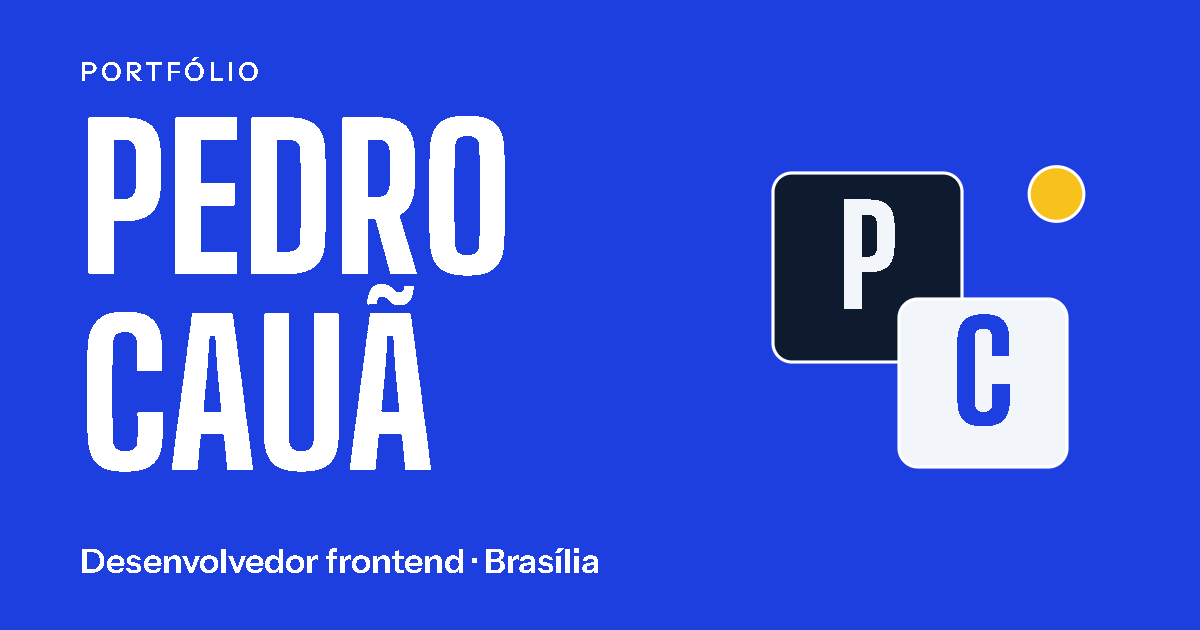
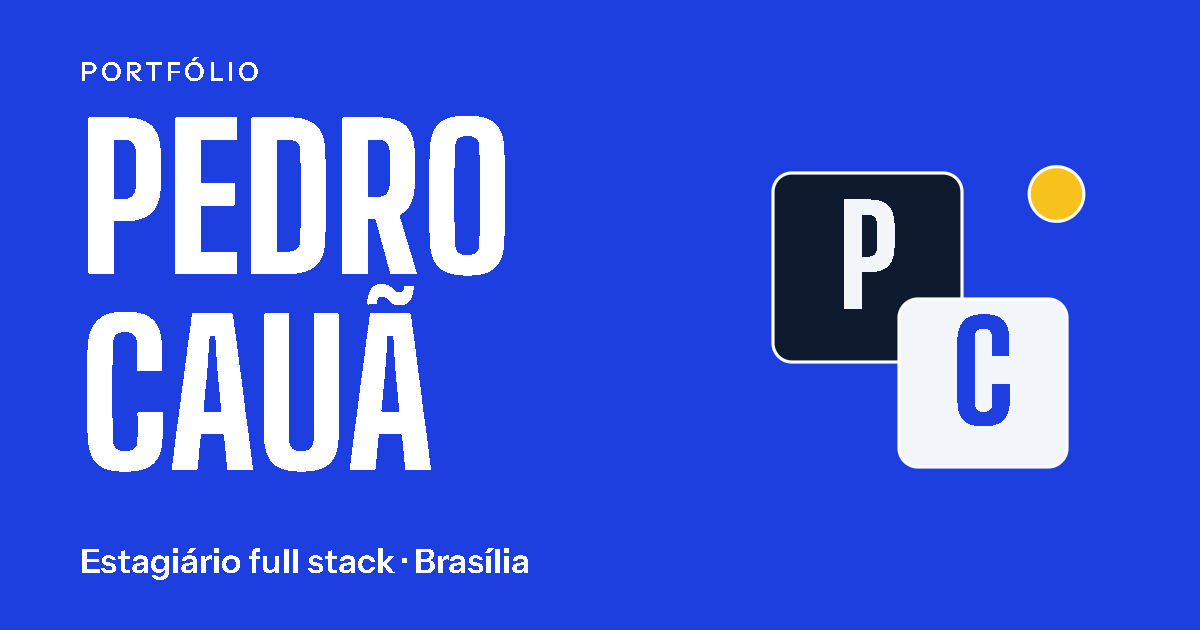
Imagem de compartilhamento atualizada, DESIGN.md e .gitignore

Changed region(s): [[0.0617, 0.8746, 0.4933, 0.9349]]

diff --git a/DESIGN.md b/DESIGN.md
@@ -1,0 +1,179 @@
+# DESIGN.md
+
+Portfólio de Pedro Cauã. Base: tokens, fontes e trilho do `index (1).html` atual. Valores marcados com **novo** não existem no código ainda; os demais já existem.
+
+## História da página
+
+Desenvolvedor que constrói software que as pessoas conseguem usar, e usa IA para trabalhar melhor.
+
+Implicação: o produto usável (Nodify, acessibilidade) é o fim e a IA é o meio. O h1 atual ("Faço agentes de IA trabalharem como um time de engenharia") inverte essa ordem. [PENDENTE: decidir se o h1 muda para seguir a história]
+
+## Tese visual
+
+Um painel de engenharia em azul de planta e amarelo de sinalização: o portfólio de quem trabalha com agentes se mostra como um log de execução legível, em que cada seção é uma etapa e cada troca de fundo é a passagem para a próxima.
+
+## Detalhe do assunto
+
+- **Log de execução**: linhas em mono com `✓`, `…` e `→` (hoje no `.trace` do hero). Rótulos, contadores e eyebrows usam o mesmo registro.
+- **Coordenadas de Brasília** no eyebrow do início (`15°47′S 47°53′W`), como carimbo de local.
+- **O nó de agente**: círculo com anel e 3 satélites em `--accent`, a assinatura gráfica que muda de pose a cada seção. É o único elemento ilustrado da página.
+
+## Ousadia em um lugar só
+
+A cena do Nodify é a ilha escura da página (no tema claro também). O resto fica quieto: cortes de cor discretos, sem degradês, sem sombra forte.
+
+## Mapa das seções
+
+Implementado: início, faixa de tecnologias, projetos (pin horizontal), Nodify em ação (pin), agentes no trabalho (pin), habilidades (abas), trajetória (carrossel), sobre e contato. Tons por seção: accent (início, agentes), dark (faixa, projetos, trajetória, contato) e paper (Nodify, habilidades, sobre). Capacidades e o card AlavancaquIA saíram como seções; o conteúdo vive na aba IA e dados.
+
+Tabela do brief inicial, mantida como referência:
+
+| Seção prevista | Hoje no HTML | Observação |
+|---|---|---|
+| início | `#inicio` | igual |
+| agentes | `#metodo` | passos e princípios |
+| jarvis | card 1 de `#projetos` | vira seção própria |
+| nodify | card 2 de `#projetos` | vira seção própria, escura |
+| trajetória | `#experiencia` + `#certificados` | carrossel único |
+| contato | `#contato` | igual |
+| sem lugar definido | `#capacidades` e card AlavancaquIA | [PENDENTE: onde ficam]. Até decidir, usam os tokens de início. |
+
+## Cores
+
+### Tokens base
+
+| Token | Claro | Escuro | Uso |
+|---|---|---|---|
+| `--bg` | `#EAEFF5` | `#0A1325` | fundo do início e da página |
+| `--surface` | `#F7F9FC` | `#111D36` | cartões e painéis |
+| `--fg` | `#0E1A2E` | `#E7EDF8` | texto principal |
+| `--muted` | `#4A5A74` | `#9AA9C4` | texto de apoio |
+| `--line` | `#C6D1DF` | `#24365C` | bordas e divisórias (decorativo) |
+| `--accent` | `#1E3FE0` | `#8CA4FF` | ação, eyebrow, links, progresso |
+| `--on-accent` | `#FFFFFF` | `#0A1325` | texto sobre `--accent` |
+| `--signal` | `#F7C21B` | `#FFCB2E` | só como preenchimento (marca-texto, selo). Nunca como texto: 1,4:1 sobre o fundo claro. |
+| `--ok` | `#0F6B44` **novo** (era `#16794F`) | `#5BD99C` | `✓` e estados concluídos |
+
+`--ok` escureceu no claro porque `#16794F` dá 4,2:1 sobre o fundo de agentes.
+
+### Fundo chapado por seção
+
+Cada seção troca de cor no corte da borda, sem degradê. Tokens novos: `--sec-bg` e `--sec-surface`, aplicados por seção. Texto, `--muted`, `--accent` e `--ok` seguem a tabela de tokens base, exceto no Nodify do tema claro, que usa os valores do tema escuro.
+
+| Seção | `--sec-bg` claro | `--sec-surface` claro | `--sec-bg` escuro | `--sec-surface` escuro |
+|---|---|---|---|---|
+| início | `#EAEFF5` | `#F7F9FC` | `#0A1325` | `#111D36` |
+| agentes | `#D9E3F5` | `#F7F9FC` | `#0F1C3A` | `#16264A` |
+| jarvis | `#F4EDCB` | `#FBF8E8` | `#1C1B0F` | `#282511` |
+| nodify | `#0E1A2E` (tokens do tema escuro) | `#16264A` | `#050A16` | `#0C1731` |
+| trajetória | `#DCE5F1` | `#F7F9FC` | `#0D1830` | `#14264D` |
+| contato | `#FBE9A6` | `#FFF8DC` | `#2A2308` | `#3A3110` |
+
+Jarvis e contato são tons do amarelo de sinalização, não creme: continuam com tinta azul e fontes sem serifa.
+
+### Contraste (WCAG 2.2, calculado)
+
+Texto normal 4,5:1, texto grande e componentes 3:1. Todas as combinações abaixo passam.
+
+| Seção | Claro: fg / muted / accent / ok | Escuro: fg / muted / accent / ok |
+|---|---|---|
+| início | 15,1 / 6,0 / 6,4 / 5,7 | 15,8 / 7,8 / 7,8 / 10,5 |
+| agentes | 13,5 / 5,4 / 5,7 / 5,1 | 14,3 / 7,1 / 7,1 / 9,5 |
+| jarvis | 14,8 / 5,9 / 6,3 / 5,6 | 14,7 / 7,3 / 7,3 / 9,8 |
+| nodify | 14,8 / 7,3 / 7,4 / 9,8 | 16,8 / 8,3 / 8,4 / 11,2 |
+| trajetória | 13,7 / 5,5 / 5,8 / 5,2 | 15,0 / 7,4 / 7,5 / 10,0 |
+| contato | 14,4 / 5,8 / 6,1 / 5,4 | 13,3 / 6,6 / 6,6 / 8,8 |
+
+- Texto sobre o cartão (`--sec-surface`): pior caso `--muted` 6,3:1 no claro (nodify) e 5,4:1 no escuro (contato).
+- Botão primário (`--fg` sobre `--bg`): 15,1:1 no claro.
+- Marca-texto: no tema claro, `--fg` sobre `--signal` dá 10,5:1. No escuro, o texto dentro de `mark` deve ser `#0A1325` (12,2:1). Hoje o `mark` mantém `--fg` claro sobre amarelo, 1,3:1, e **falha**.
+
+### Cortes
+
+No claro, os cortes entre seções vizinhas têm pouca diferença de luminância (1,05 a 1,12) e se apoiam no matiz; o único corte forte é a entrada e a saída do Nodify (14:1). No escuro, os cortes ficam entre 1,03 e 1,14. Por isso, toda borda de seção leva uma divisória pontilhada (`1px dashed var(--line)`).
+
+### Trilho e barra do topo
+
+Trilho lateral e barra superior pegam os tokens da seção que cruza o meio da tela. No Nodify do tema claro, passam para texto claro. O contraste é o da tabela acima.
+
+## Tipografia
+
+Atualizado na implementação: as fontes do brief inicial foram trocadas por estas.
+
+| Papel | Fonte | Uso | Escala |
+|---|---|---|---|
+| Títulos gigantes | Big Shoulders Display 800, caixa alta | nome do início, h2 das seções, números | nome `clamp(72px, 14vw, 200px)` (mobile `clamp(88px, 30vw, 180px)`). h2 `clamp(46px, 7vw, 96px)`. Contato `clamp(52px, 11vw, 150px)`. |
+| Texto | Instrument Sans 400 e 600 | parágrafos, botões, rótulos de navegação | corpo 1,0625rem/1,6. Lede 1,125rem. |
+| Rótulos | JetBrains Mono 400 e 500 | eyebrow, chips, datas, log | 0,75rem, caixa alta, tracking 0,08em |
+
+Fallbacks: `Arial Narrow, Segoe UI, system-ui` para títulos, `Segoe UI, system-ui` para texto e `ui-monospace, SFMono-Regular, Menlo` para rótulos. `font-display: swap` pelo Google Fonts. Só os pesos usados são pedidos.
+
+## Espaçamento e forma
+
+- Seção: `padding-block: clamp(56px, 8vw, 112px)`.
+- Gutter lateral: 16px mínimo, somado a `env(safe-area-inset-*)`.
+- Largura máxima: 1280px. Trilho 200px a partir de 1040px, com 56px de respiro.
+- Leitura: cabeçalho de seção até 46rem, lede até 40rem, texto corrido até 52rem.
+- Escala: 4, 8, 12, 16, 24, 32, 56, 112.
+- Raios: cartão grande 10px, cartão pequeno 6px, botão e chip 999px.
+- Sombra: só em painéis grandes, `0 28px 56px -36px var(--shadow)`. Cartões menores só com borda.
+- Grão: SVG `feTurbulence` inline, opacidade até 0,06, só nos fundos de seção.
+
+## Movimento
+
+### Tokens
+
+| Token | Valor | Uso |
+|---|---|---|
+| `--dur-fast` | 200ms | hover, foco, botão |
+| `--dur-base` | 350ms | estado de passo, borda de cartão |
+| `--dur-slow` | 600ms | entrada de grupo, contador |
+| `--dur-scene` | 1000ms | troca de pose do nó de agente |
+| `--stagger-item` | 60ms | grupos de habilidades, cartões |
+| `--stagger-word` | 100ms | revelação de título por palavra |
+| `--ease-out` | `cubic-bezier(0.215, 0.61, 0.355, 1)` (GSAP `power3.out`) | entradas e trocas de pose |
+| `--ease-soft` | `cubic-bezier(0.25, 0.46, 0.45, 0.94)` (GSAP `power1.out`) | revelação por palavra |
+| `--ease-inout` | `cubic-bezier(0.65, 0, 0.35, 1)` | cenas fixas e movimento horizontal |
+
+### Regras de scroll
+
+- Scroll suave com Lenis: `duration` 1,2, saída exponencial (`t => Math.min(1, 1.001 - 2 ** (-10 * t))`).
+- Revelação de título: de `top 90%` a `top 50%`, `scrub: true`, opacidade de 0,35 a 1 por palavra.
+- Parallax decorativo: `scrub: 1`, deslocamento máximo de ±10% (`yPercent`).
+- Cenas fixas: agentes `+=250%`, nodify `+=350%`. Em tela estreita, sem pin.
+- Troca de pose do nó: `overwrite: true`, `--dur-scene`, `--ease-out`.
+
+### O que não anima
+
+- Texto corrido, cartões de certificado ao filtrar, trilho e barra de progresso (acompanham o scroll sem easing próprio).
+- Nada nasce em `opacity: 0` esperando gatilho: o conteúdo é legível sem JavaScript.
+- **Estado inativo nunca baixa a opacidade do texto.** O passo inativo a 0,62 dá corpo `--muted` em 2,6:1 no claro (3,5:1 no escuro), abaixo de AA. O estado inativo muda de cor (título e corpo em `--muted`, círculo vazio) e mantém `opacity: 1`.
+- `prefers-reduced-motion: reduce`: Lenis desligado, nenhum pin, parallax, scrub ou pose. O nó fica na pose do início, estático, e tudo aparece no estado final.
+
+## Componentes
+
+- **Botão**: pílula, borda `--fg`. Primário preenche com `--fg` e texto `--bg`. Pequeno usa borda `--line` e texto `--muted`. Hover sobe 1px em `--dur-fast`.
+- **Cartão**: `--sec-surface`, borda 1px `--line`, raio 10px. Sem sombra, salvo painéis grandes.
+- **Chip**: pílula mono, borda `--line`, texto `--muted`. Variante "em uso": texto e borda `--ok`.
+- **Log de execução**: grade `20px | 8,5rem | texto`, linhas separadas por `--line`, `✓` em `--ok`, `…` em `--accent`.
+- **Passos**: círculo numerado de 32px sobre linha vertical. Concluído: preenchido com `--accent`, número `--on-accent`.
+- **Marca-texto**: faixa `--signal` entre 58% e 92% da linha. Texto `--fg` no claro e `#0A1325` no escuro.
+- **Filtros**: pílulas. Ativo: fundo `--fg`, texto `--bg`.
+- **Nó de agente**: círculo, anel e 3 satélites em `--accent`, atrás do texto, `pointer-events: none`.
+- **Foco**: contorno 2px `--accent`, offset 3px, visível em todo elemento interativo.
+- **Navegação**: trilho lateral com linha de progresso em `--accent` (a partir de 1040px) e barra fina no topo em telas estreitas.
+
+## Voz
+
+Português do Brasil, primeira pessoa, direto. Frases curtas com um fato concreto cada uma (cargo, projeto, número). Diz o que fez e o que ainda é protótipo ("em desenho", "hobby"). Evita "apaixonado por", "solução inovadora", "ecossistema", "sinergia", e promessa sem prova.
+
+## Evitar
+
+- Roxo para azul em degradê, preto com um único neon, Inter ou Space Grotesk por reflexo.
+- Creme com serifada e terracota. Jarvis e contato usam amarelo de sinalização com tinta azul e sans.
+- Emoji como marcador. Os glifos `✓ ↓ →` são funcionais e ficam.
+- Tudo centralizado; o mesmo raio e a mesma sombra em todos os cartões.
+- `--signal` como cor de texto.
+- Opacidade abaixo de 1 em texto para marcar estado.
+- Efeito que esconde conteúdo até o gatilho disparar.
+- Contar o que não existe: o Jarvis é hobby, os agentes `code-reviewer` e `orquestrador` estão "em desenho", o Nodify mostra "ilustração do conceito" até haver gestos e comandos reais.
